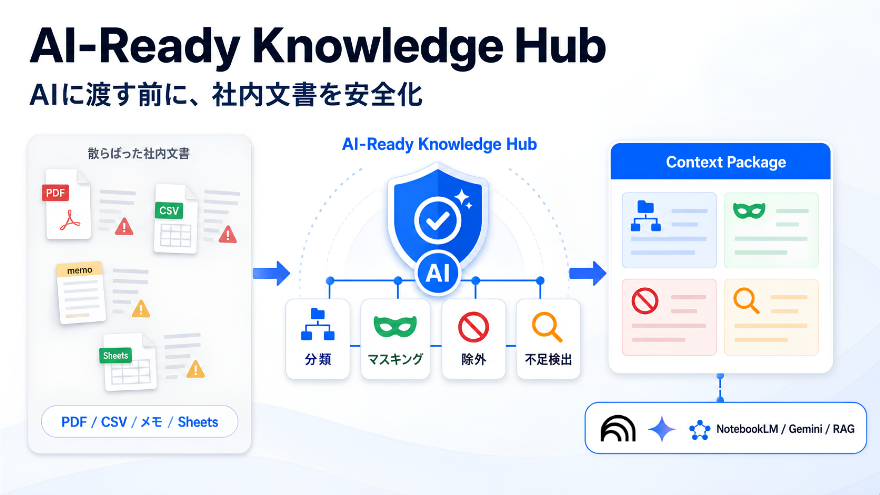
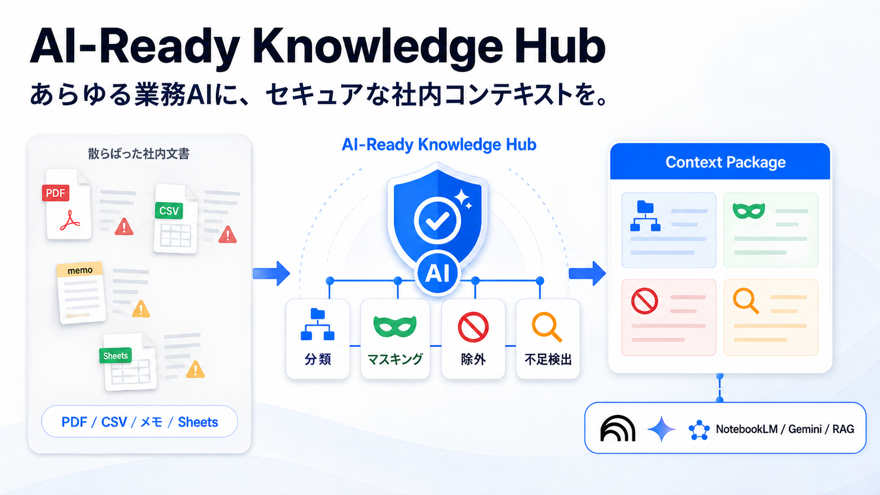
docs: align hero messaging with secure AI context

diff --git a/README.md b/README.md
@@ -1,15 +1,14 @@
 # AI-Ready Knowledge Hub
 
-> SME の散らばった文書を分類・マスキングし、AI に渡せる Context Package へ変換する「前段プラットフォーム」。
+> AIエージェントが社内書類を分類・マスキングし、目的に応じたContext Packageを作成します。
 
 [DevOps x AI Agent Hackathon 2026](https://findy.notion.site/devops-ai-agent-hackathon-2026) (Findy x Google Cloud) 提出作品です。
 
-![AI-Ready Knowledge Hub — AIに渡す前に、社内文書を安全化](docs/protopedia/hero-v1.png)
+![AI-Ready Knowledge Hub — あらゆる業務AIに、セキュアな社内コンテキストを。](docs/protopedia/hero-v1.png)
 
-<!-- 提出前に差し込む:
-🎥 デモ動画: <https://youtu.be/IOevgO04qg4>
-（デプロイ先は IAP 保護の per-client 環境のため公開 URL はありません。動作は動画とスクリーンショットで確認できます）
--->
+🎥 **デモ動画**: <https://youtu.be/IOevgO04qg4>
+
+🚀 **公開デモ**: <https://ai-ready-knowledge-hub-demo-127729019743.asia-northeast1.run.app/> — 合成サンプルで分類結果の閲覧から Context Package 生成まで試せます（任意アップロードは無効・定期リセット前提）。本番は IAP 保護の per-client 環境のため公開 URL はありません。
 
 ## 課題と解決
 
